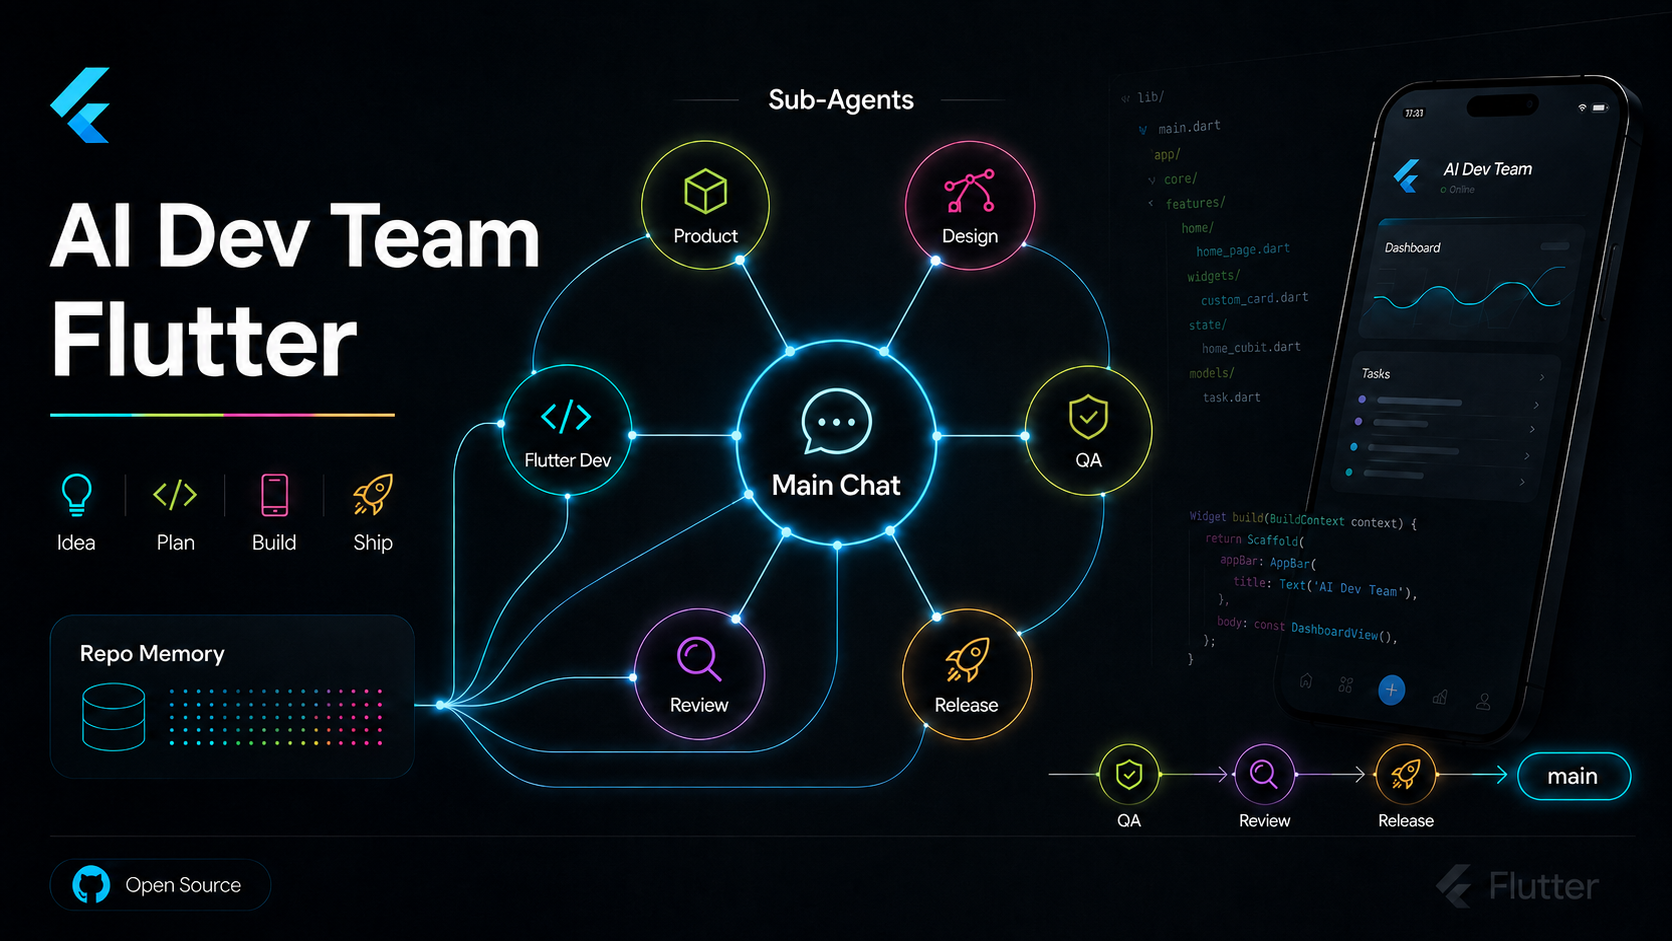
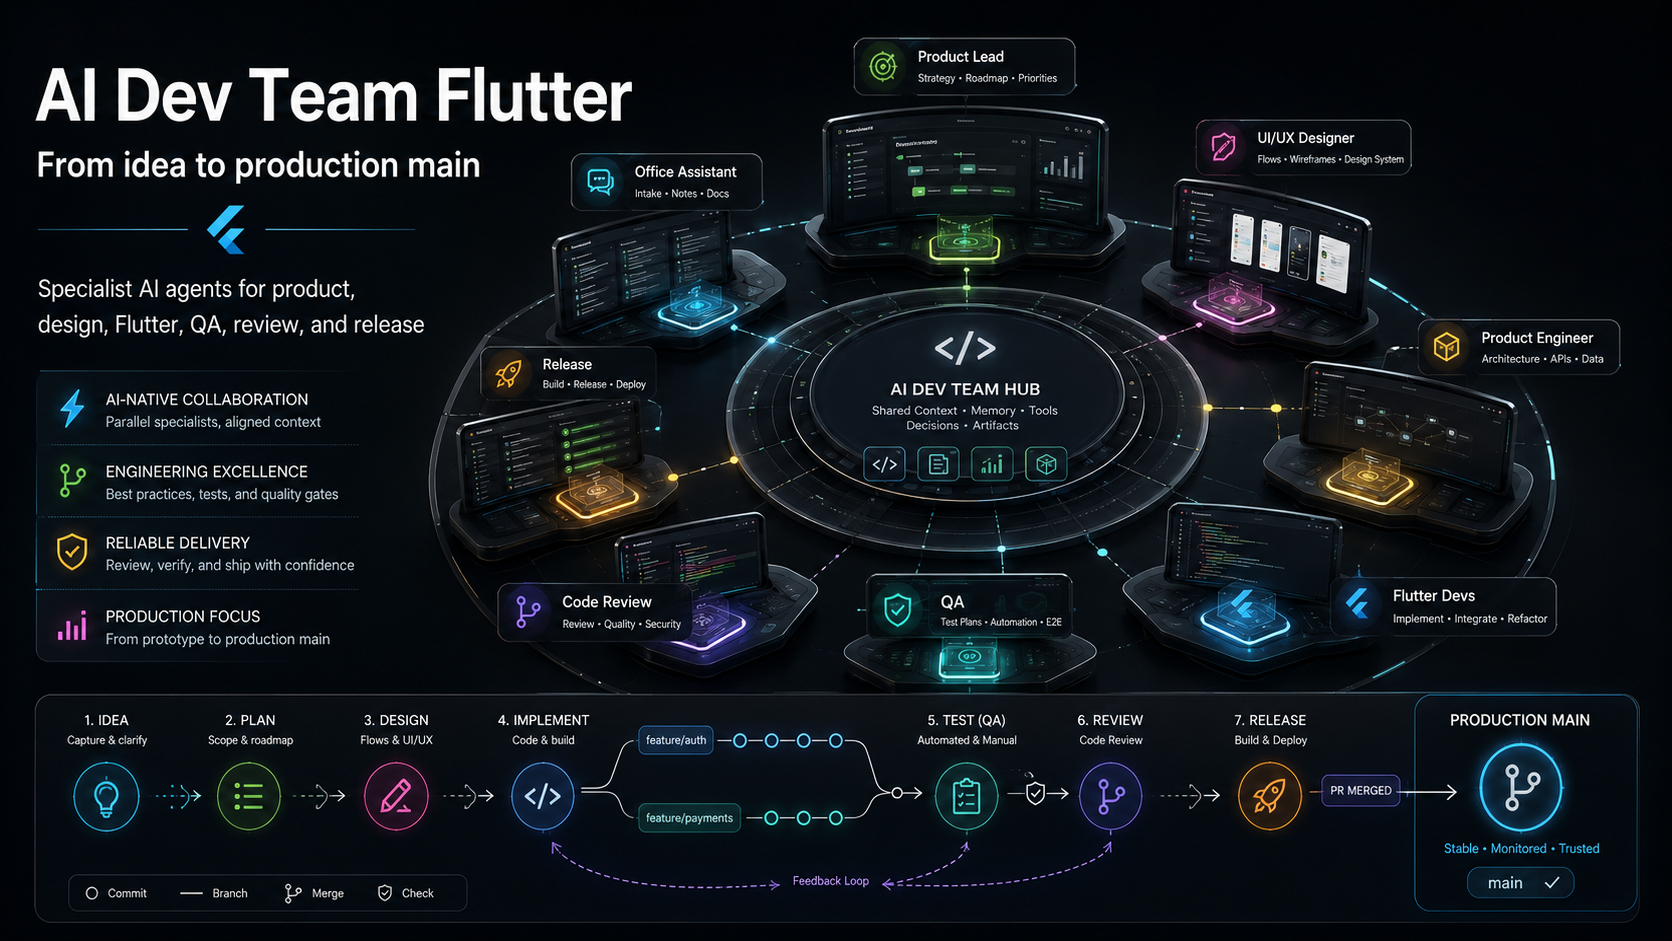
docs(readme): sync canonical README assets

diff --git a/README.md b/README.md
@@ -14,10 +14,10 @@ sub-agents, product/design/architecture contracts, repo-backed memory, MCP
 tooling, and release gates.
 
 Use this repo if you are searching for an AI software team for Flutter, a
-multi-agent coding workflow, a Codex or Claude Code agent setup, a Gemini CLI
-Flutter office, an Antigravity-ready sub-agent harness, or a practical example
-of AI-assisted product engineering with Dart, Flutter, tests, code review, and
-release discipline.
+multi-agent coding workflow, a runtime-neutral Codex, Claude Code, or
+Antigravity sub-agent setup, a Gemini CLI or Cursor-friendly Flutter office, or
+a practical example of AI-assisted product engineering with Dart, Flutter,
+tests, code review, and release discipline.
 
 This repo is not just a Flutter app. It is an office: a structured collaboration
 system for taking a rough idea, shaping it through product and design, building
@@ -33,7 +33,7 @@ build the best Flutter AI dev team in the world.
   state, tests, platform builds, and release checks.
 - Product builders who want product, UX, architecture, implementation, QA, code
   review, and release roles to work from the same repo-backed contracts.
-- Teams experimenting with Codex, Claude Code, Gemini CLI, Cursor, Antigravity,
+- Teams experimenting with Codex, Claude Code, Antigravity, Gemini CLI, Cursor,
   MCP servers, local memory, or parallel sub-agent workflows.
 - Open-source maintainers who want AI-assisted contributions to leave durable
   handoffs instead of hiding decisions inside chat history.
@@ -43,29 +43,11 @@ build the best Flutter AI dev team in the world.
 - A role-based AI office for Flutter product development.
 - Branch, handoff, and PR rules for safe multi-agent work on GitHub.
 - Product brief, design contract, technical plan, QA, and release templates.
-- Codex, Claude, Gemini, Cursor, and MCP configuration examples.
+- Codex, Claude Code, Antigravity, Gemini, Cursor, and MCP configuration
+  examples.
 - Flutter quality gates for format, analyze, tests, web builds, and browser
   smoke checks.
 - Optional local semantic memory for durable decisions and searchable context.
-
-## GitHub Discovery Signals
-
-Suggested repository description:
-
-```text
-AI agent team framework for Flutter with Codex, Claude, Gemini, MCP, role contracts, QA gates, and repo-backed memory.
-```
-
-Suggested GitHub topics:
-
-```text
-flutter dart ai-agents coding-agents agentic-ai codex claude-code gemini-cli
-cursor antigravity mcp subagents developer-tools mobile-app-development
-flutter-app test-automation product-engineering code-review release-engineering
-open-source
-```
-
-More discoverability notes live in `docs/github-discoverability.md`.
 
 ## The Big Idea
 
@@ -74,7 +56,7 @@ context window. It is an **AI dev office**: one main chat acts like the CEO or
 Office Assistant, then starts distinct specialist agents for product, design,
 architecture, Flutter implementation, QA, code review, and release.
 
-![Native sub-agent harness for the AI Flutter office](docs/assets/readme/subagent-harness.png)
+![Runtime-neutral native sub-agent harness for the AI Flutter office](docs/assets/readme/subagent-harness.png)
 
 The main chat should stay light: it routes work, monitors branch state, reads
 handoffs, and decides when to ask the user. The specialist agents do the deep
@@ -84,7 +66,7 @@ work inside their own context windows and leave durable output in the repo.
 |---|---|
 | Main chat | Orchestrates the whole feature run from idea to release-ready handoff. |
 | Role contracts | Give each sub-agent its mission, branch, file ownership, and handoff path. |
-| Native sub-agents | Let supported tools such as Codex or Antigravity run specialists in parallel when the runtime permits it. |
+| Native sub-agents | Let supported tools such as Codex, Claude Code, Antigravity, Gemini, or Cursor run specialists in parallel when the runtime permits it. |
 | Packet fallback | Keeps role contracts portable as the default when native spawning is unavailable or not allowed. |
 | Repo memory | Stores decisions in docs, branches, commits, status files, and outboxes. |
 
@@ -107,18 +89,18 @@ Role-specific sub-agents make the office stronger because:
   user to manually trigger each next step.
 - Failed or weak role output can be retried from the same role contract without
   replaying the whole project.
-- Handoffs and outboxes make progress inspectable by Codex, Antigravity, Claude
-  Code, Gemini, Cursor, or a future tool.
+- Handoffs and outboxes make progress inspectable by Codex, Claude Code,
+  Antigravity, Gemini, Cursor, or a future tool.
 
-Codex native sub-agent spawning is a first-class path for this office when the
-user asks for sub-agents, delegation, or parallel role work, or when the active
-runtime policy permits it. The main chat can create separate specialist agents
-from the same Markdown role contracts, keep their branches and file ownership
-distinct, and monitor handoffs without cramming every role into one transcript.
-Antigravity, Claude Code, Gemini, Cursor, and future harnesses can use the same
-contract shape when they support native workers. When native spawning is not
-available or not allowed, packet fallback keeps the workflow usable by giving
-each role a ready-to-paste mission, branch, ownership list, and handoff path.
+Native sub-agent spawning is a first-class path for this office when the active
+tool and runtime policy permit it. Codex, Claude Code, and Antigravity can each
+run separate specialist agents from the same Markdown role contracts, keep their
+branches and file ownership distinct, and monitor handoffs without cramming
+every role into one transcript. Gemini, Cursor, and future harnesses can use the
+same contract shape when they support native workers. When native spawning is
+not available or not allowed, packet fallback keeps the workflow usable by
+giving each role a ready-to-paste mission, branch, ownership list, and handoff
+path.
 
 ## Open Source
 
@@ -141,8 +123,9 @@ Each role has a job:
 
 - The CEO keeps the office coherent.
 - The Office Assistant turns unstructured tasks into role contracts, starts
-  native sub-agents when the runtime allows it, including permitted Codex
-  native sub-agent spawning, and prints packets as the portable default.
+  native sub-agents across supported tools when the runtime allows it, including
+  Codex, Claude Code, and Antigravity, and prints packets as the portable
+  default.
 - The Product Lead clarifies what is worth building.
 - The UI/UX Designer makes the experience implementable.
 - The Product Engineer turns intent into architecture.
@@ -300,9 +283,11 @@ scanning app source.
 
 Codex role agents are checked in under `.codex/agents/`, and Claude Code role
 agents are checked in under `.claude/agents/`. Both sets map to the same office
-roles and role contracts, so Codex can run the main-chat orchestrator plus
+roles and role contracts, so those tools can run the main-chat orchestrator plus
 separate specialist agents instead of treating the feature team as one generic
-worker.
+worker. Antigravity uses the same Markdown role contracts, branch rules, and
+repo handoffs, keeping the office model neutral even when each tool exposes
+native spawning differently.
 
 Official Flutter and Dart agent skills are installed in `.agents/skills`, with
 their hashes recorded in `skills-lock.json`.
@@ -344,12 +329,11 @@ office and feature docs, determines the role sequence, and creates
 
 The Assistant prints ready-to-paste packets as the portable default. If the
 current tool supports native sub-agents and the runtime allows launching them,
-the Assistant can start the roles directly. In Codex, that means native spawning
-is used when the user explicitly asks for sub-agents, delegation, or parallel
-work, or when runtime policy permits it. Otherwise, the same role contracts are
-printed as packets for separate sessions in Codex, Cursor, Gemini CLI,
-Antigravity CLI, Claude Code, or any AI tool, and each agent works within its
-defined scope.
+the Assistant can start the roles directly. In Codex, Claude Code, or
+Antigravity, native spawning is used when that tool's active launch policy
+permits it. Otherwise, the same role contracts are printed as packets for
+separate sessions in Codex, Claude Code, Antigravity CLI, Gemini CLI, Cursor, or
+any AI tool, and each agent works within its defined scope.
 
 For build or fix requests, the office should keep going until the feature is
 release-ready, blocked, or waiting for final approval. You should not have to
@@ -390,7 +374,8 @@ Every role announces itself before work starts. The CEO example shows office
 governance involvement, while the Office Assistant examples show unstructured
 status prompts being routed through a lightweight, read-only status protocol.
 The same contract is portable across tools: Codex gets it through `AGENTS.md`,
-while Gemini CLI gets it through `GEMINI.md`.
+Claude Code gets it through `CLAUDE.md` and `.claude/agents/`, and Gemini CLI
+gets it through `GEMINI.md`.
 
 **CEO**
 
